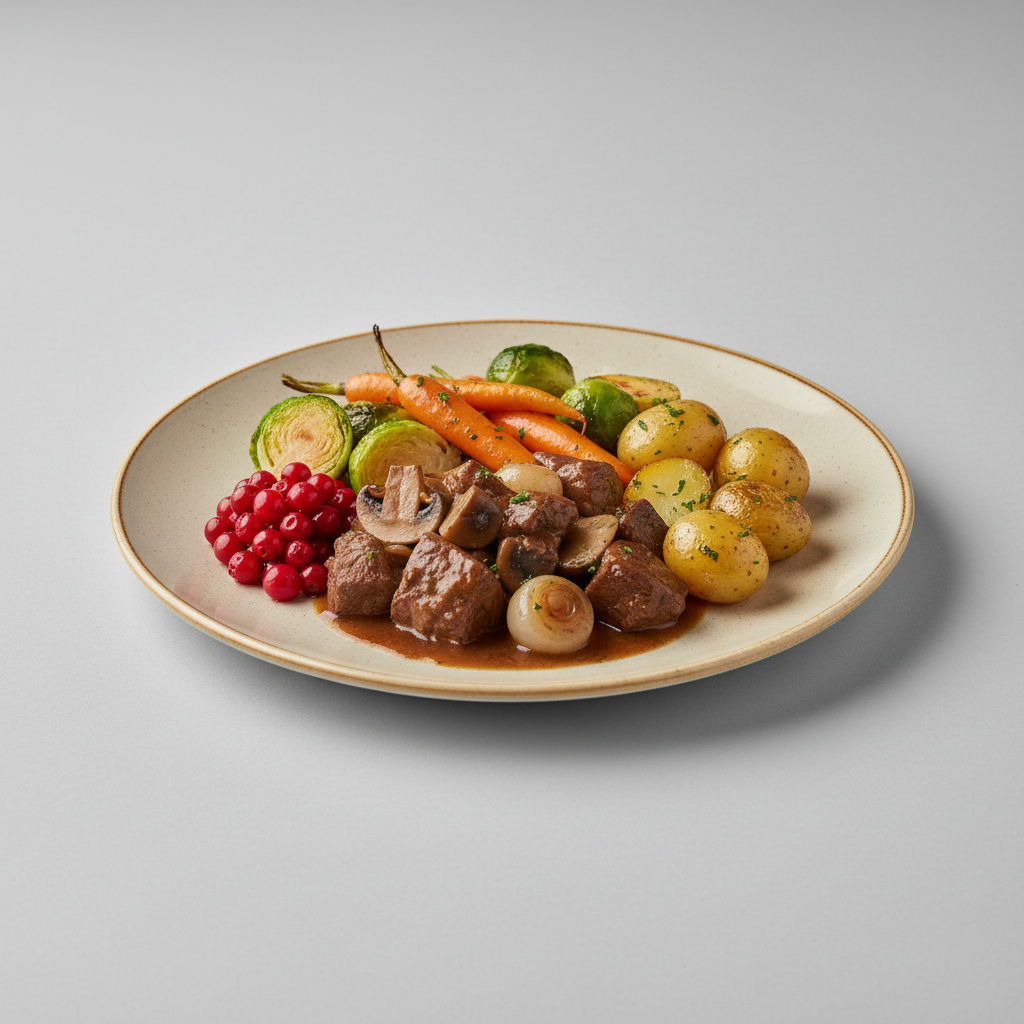
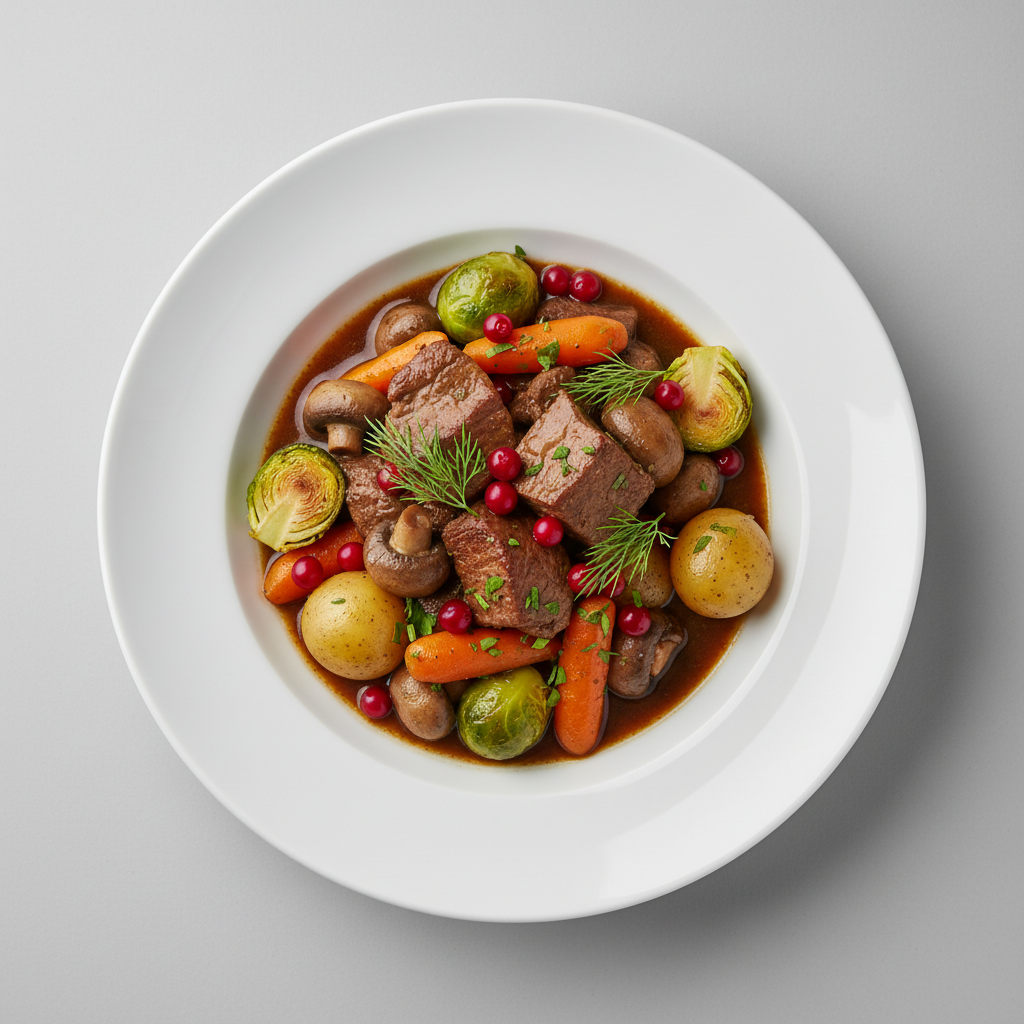
Fix Fresh4you Thursday image (top-down) and fix all prompts
- Regenerated image with correct top-down overhead angle
- Fixed generation prompt in generate-images-v2.js and review-images.js
  to use top-down shots instead of 45-degree angle

diff --git a/generate-images-v2.js b/generate-images-v2.js
@@ -13,19 +13,18 @@ const ai = new GoogleGenAI({ apiKey: GEMINI_API_KEY });
 
 const DAY_ORDER = ['monday', 'tuesday', 'wednesday', 'thursday', 'friday'];
 
-// IMPROVED PROMPT - Shows full plates, consistent angle
-const GENERATION_PROMPT = (dishName, canteenName) => 
-`Professional food photography of "${dishName}" on a plate.
+// IMPROVED PROMPT - Top-down overhead shot, full plate visible
+const GENERATION_PROMPT = (dishName, canteenName) =>
+`Professional food photography of "${dishName}", top-down overhead shot on a clean white ceramic plate, soft natural lighting, shallow depth of field, restaurant quality presentation, minimalist Scandinavian style, no text or labels, photorealistic.
 
 CRITICAL REQUIREMENTS:
-- Camera: 45-degree angle from side (NOT top-down), appetizing perspective
-- MUST SHOW: Complete round plate/dish visible under the food
-- Plate color: Light beige/cream ceramic plate (not pure white, easier for AI)
+- Camera: Top-down overhead shot looking straight down at the plate
+- MUST SHOW: Complete round plate fully visible with generous margin around all edges
+- Plate color: Clean white or light ceramic plate
 - Food positioning: Centered on plate, realistic portions
-- Framing: Show full plate with some margin around it
 - Background: Solid light gray (#E8E8E8) seamless backdrop
-- Lighting: Natural soft lighting from left side, subtle shadows
-- NO top-down view, NO extreme close-ups, NO cropped plates
+- Lighting: Natural soft lighting, subtle shadows
+- NO cropped plates, NO angled shots, entire rim must be visible
 - Style: Restaurant menu photography, appetizing and realistic`;
 
 async function generateImage(dishName, canteenName) {

diff --git a/review-images.js b/review-images.js
@@ -18,18 +18,16 @@ const DAY_ORDER = ['monday', 'tuesday', 'wednesday', 'thursday', 'friday'];
 const MAX_RETRIES = 2;
 
 const GENERATION_PROMPT = (dishName) =>
-`Professional food photography of "${dishName}" on a plate.
+`Professional food photography of "${dishName}", top-down overhead shot on a clean white ceramic plate, soft natural lighting, shallow depth of field, restaurant quality presentation, minimalist Scandinavian style, no text or labels, photorealistic.
 
 CRITICAL REQUIREMENTS:
-- Camera: 45-degree angle from side (NOT top-down), appetizing perspective
-- MUST SHOW: Complete round plate/dish fully visible, NOT cropped at edges
-- Plate color: Light beige/cream ceramic plate (not pure white)
+- Camera: Top-down overhead shot looking straight down at the plate
+- MUST SHOW: Complete round plate fully visible with generous margin around all edges
+- Plate color: Clean white or light ceramic plate
 - Food positioning: Centered on plate, realistic portions
-- Framing: Show FULL plate with generous margin around all edges, no cropping
 - Background: Solid light gray (#E8E8E8) seamless backdrop
-- Lighting: Natural soft lighting from left side, subtle shadows
-- NO top-down view, NO extreme close-ups, NO cropped plates
-- The entire rim of the plate must be visible in the image
+- Lighting: Natural soft lighting, subtle shadows
+- NO cropped plates, NO angled shots, entire rim must be visible
 - Style: Restaurant menu photography, appetizing and realistic`;
 
 async function reviewImage(imagePath, dishName) {
